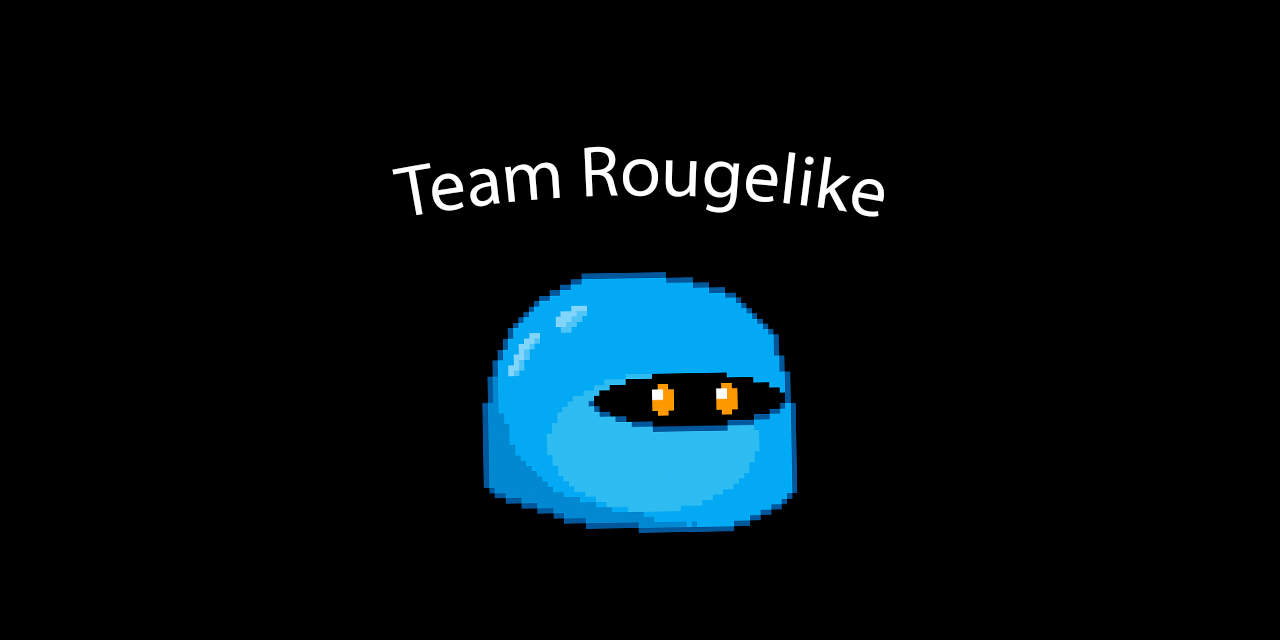
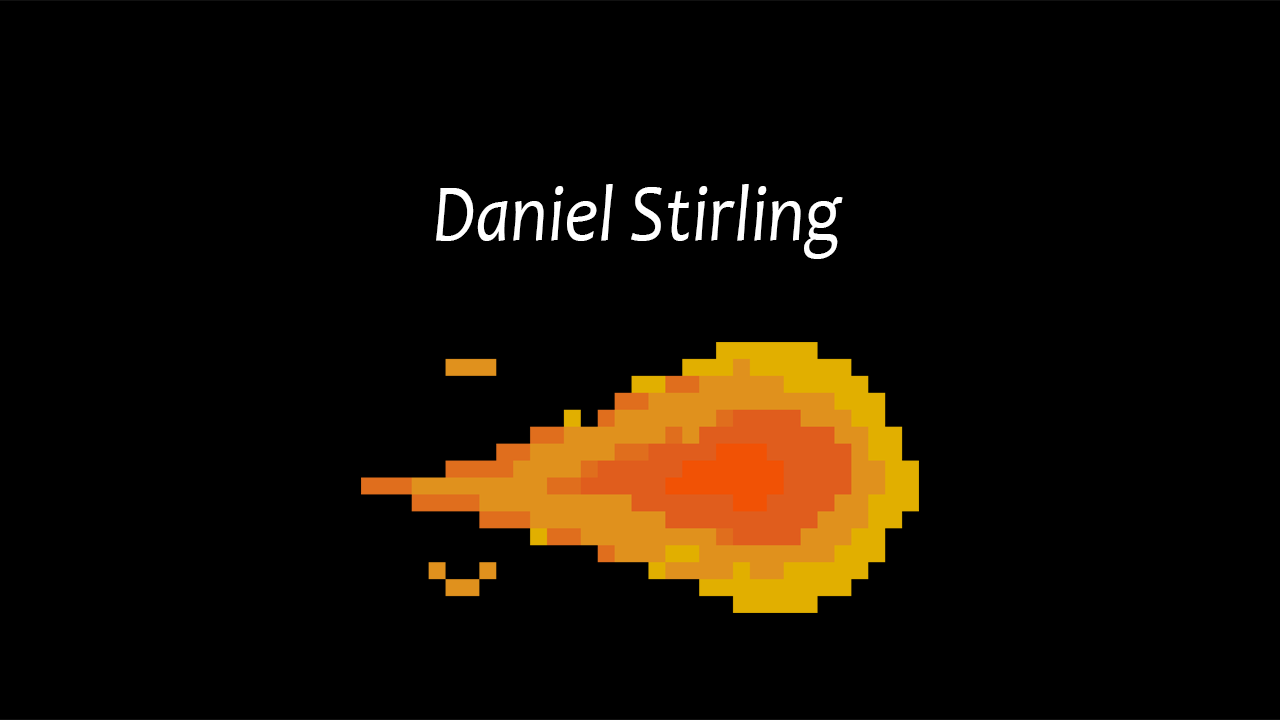
updated daniel credits

Changed region(s): [[0.2812, 0.4062, 0.7188, 0.875], [0.3125, 0.2188, 0.6875, 0.375]]

diff --git a/src/main.rs b/src/main.rs
@@ -6,7 +6,7 @@ use sdl2::image::LoadTexture;
 
 const TITLE: &str = "Rougelike Credits";
 const CAM_W: u32 = 1280;
-const CAM_H: u32 = 640;
+const CAM_H: u32 = 720;
 const TIMEOUT: u64 = 4500;
 
 pub fn main() -> Result<(), String> {
